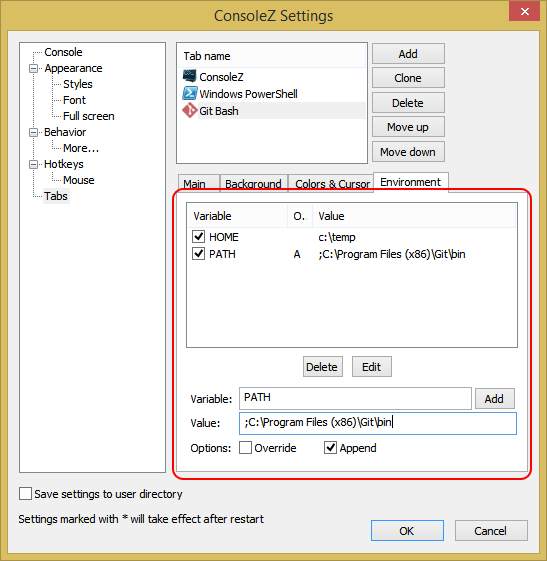
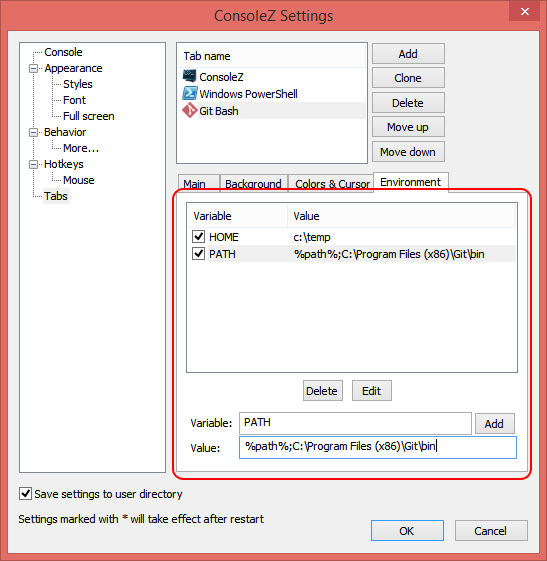
#130 use two passes algorithm but don't use appending for PATH and LIBPATH

Changed region(s): [[0.0, 0.0, 1.0, 1.0], [0.5283, 0.3636, 0.8702, 0.4848]]

diff --git a/help/html/settings_tabs_environment.html b/help/html/settings_tabs_environment.html
@@ -53,18 +53,6 @@
 	</p>
 	<br />
 
-	<p class="block-row-name">Override</p>
-	<p class="block-row-description">
-		If checked, existing environment variable is replaced by this one.
-	</p>
-	<br />
-
-	<p class="block-row-name">Append</p>
-	<p class="block-row-description">
-		If checked, the value is appended to the existing one.
-	</p>
-	<br />
-
 </body>
 
 </html>

diff --git a/Console/PageSettingsTabsEnv.cpp b/Console/PageSettingsTabsEnv.cpp
@@ -21,17 +21,13 @@ LRESULT PageSettingsTabsEnv::OnInitDialog(UINT /*uMsg*/, WPARAM /*wParam*/, LPAR
 	m_listCtrl.SetExtendedListViewStyle(m_listCtrl.GetExtendedListViewStyle() | LVS_EX_FULLROWSELECT | LVS_EX_CHECKBOXES);
 
 	m_listCtrl.InsertColumn(0, L"Variable");
-	m_listCtrl.InsertColumn(1, L"Options");
-	m_listCtrl.InsertColumn(2, L"Value");
+	m_listCtrl.InsertColumn(1, L"Value");
 
 	m_listCtrl.SetColumnWidth(0, 100);
-	m_listCtrl.SetColumnWidth(1, LVSCW_AUTOSIZE);
-	m_listCtrl.SetColumnWidth(2, LVSCW_AUTOSIZE_USEHEADER);
+	m_listCtrl.SetColumnWidth(1, LVSCW_AUTOSIZE_USEHEADER);
 
 	m_editVariable.Attach(GetDlgItem(IDC_ENV_VARIABLE));
 	m_editValue.Attach(GetDlgItem(IDC_ENV_VALUE));
-	m_checkOverride.Attach(GetDlgItem(IDC_CHECK_ENV_OVERRIDE));
-	m_checkAppend.Attach(GetDlgItem(IDC_CHECK_ENV_APPEND));
 
 	return TRUE;
 }
@@ -53,12 +49,7 @@ void PageSettingsTabsEnv::Load(shared_ptr<TabData>& tabData)
 		int nItem = m_listCtrl.InsertItem(m_listCtrl.GetItemCount(), m_tabData->environmentVariables[i]->strEnvVariable.c_str());
 		m_listCtrl.SetCheckState(nItem, m_tabData->environmentVariables[i]->bEnvChecked);
 
-		std::wstring options;
-		if( m_tabData->environmentVariables[i]->bOverride ) options += L'O';
-		if( m_tabData->environmentVariables[i]->bAppend ) options += L'A';
-		m_listCtrl.SetItemText(nItem, 1, options.c_str());
-
-		m_listCtrl.SetItemText(nItem, 2, m_tabData->environmentVariables[i]->strEnvValue.c_str());
+		m_listCtrl.SetItemText(nItem, 1, m_tabData->environmentVariables[i]->strEnvValue.c_str());
 	}
 }
 
@@ -72,26 +63,13 @@ void PageSettingsTabsEnv::Save()
 	{
 		CString strVariable;
 		m_listCtrl.GetItemText(nItem, 0, strVariable);
-		CString strOptions;
-		m_listCtrl.GetItemText(nItem, 1, strOptions);
 		CString strValue;
-		m_listCtrl.GetItemText(nItem, 2, strValue);
+		m_listCtrl.GetItemText(nItem, 1, strValue);
 
 		std::shared_ptr<VarEnv> varenv (new VarEnv);
 		varenv->strEnvVariable = strVariable.GetString();
 		varenv->strEnvValue = strValue.GetString();
 		varenv->bEnvChecked = m_listCtrl.GetCheckState(nItem)? true : false;
-		int idx = 0;
-		if( idx < strOptions.GetLength() && strOptions.GetAt(idx) == L'O' )
-		{
-			varenv->bOverride = true;
-			idx ++;
-		}
-		if( idx < strOptions.GetLength() && strOptions.GetAt(idx) == L'A' )
-		{
-			varenv->bAppend = true;
-			idx ++;
-		}
 		m_tabData->environmentVariables.push_back(varenv);
 	}
 }
@@ -120,12 +98,7 @@ LRESULT PageSettingsTabsEnv::OnClickedBtnEnvAdd(WORD /*wNotifyCode*/, WORD /*wID
 		m_listCtrl.SetCheckState(nItem, TRUE);
 	}
 
-	std::wstring options;
-	if( m_checkOverride.GetCheck() ) options += L'O';
-	if( m_checkAppend.GetCheck() ) options += L'A';
-	m_listCtrl.SetItemText(nItem, 1, options.c_str());
-
-	m_listCtrl.SetItemText(nItem, 2, strValue);
+	m_listCtrl.SetItemText(nItem, 1, strValue);
 
 	return 0;
 }
@@ -147,30 +120,11 @@ LRESULT PageSettingsTabsEnv::OnClickedBtnEnvEdit(WORD /*wNotifyCode*/, WORD /*wI
 
 	CString strVariable;
 	m_listCtrl.GetItemText(nItem, 0, strVariable);
-	CString strOptions;
-	m_listCtrl.GetItemText(nItem, 1, strOptions);
 	CString strValue;
-	m_listCtrl.GetItemText(nItem, 2, strValue);
+	m_listCtrl.GetItemText(nItem, 1, strValue);
 
 	m_editVariable.SetWindowText(strVariable);
 	m_editValue.SetWindowText(strValue);
-
-	bool bOverride = false;
-	bool bAppend = false;
-	int idx = 0;
-	if( idx < strOptions.GetLength() && strOptions.GetAt(idx) == L'O' )
-	{
-		bOverride = true;
-		idx ++;
-	}
-	if( idx < strOptions.GetLength() && strOptions.GetAt(idx) == L'A' )
-	{
-		bAppend = true;
-		idx ++;
-	}
-
-	m_checkOverride.SetCheck(bOverride);
-	m_checkAppend.SetCheck(bAppend);
 
 	return 0;
 }

diff --git a/Console/ConsoleHandler.cpp b/Console/ConsoleHandler.cpp
@@ -7,6 +7,8 @@
 #include "ConsoleException.h"
 #include "ConsoleHandler.h"
 
+#include <regex>
+
 //////////////////////////////////////////////////////////////////////////////
 
 
@@ -175,18 +177,44 @@ std::wstring MergeEnvironmentVariables(
 		dictionary[std::wstring(p, equal - p)] = std::wstring(equal + 1);
 	}
 
+	std::map<std::wstring, std::wstring, __case_insensitive_compare> extra;
+
 	for(auto i = extraEnv.cbegin(); i != extraEnv.cend(); ++i)
 	{
 		if( !i->get()->bEnvChecked ) continue;
 
-		auto iter = dictionary.find(i->get()->strEnvVariable);
+		extra[i->get()->strEnvVariable] = i->get()->strEnvValue;
+	}
 
-		if( iter == dictionary.end() )
-			dictionary[i->get()->strEnvVariable] = i->get()->strEnvValue;
-		else if( i->get()->bAppend )
-			iter->second += i->get()->strEnvValue;
-		else if( i->get()->bOverride )
-			iter->second = i->get()->strEnvValue;
+	// variable name has only one restriction: no =
+	std::wregex regexEnvVar(L"%[^=]+%");
+
+	// first pass (we add all variables without %%)
+	for(auto i = extra.begin(); i != extra.end();)
+	{
+		if( std::regex_search(i->second, regexEnvVar) )
+		{
+			++i;
+		}
+		else
+		{
+			dictionary[i->first] = i->second;
+
+			i = extra.erase(i);
+		}
+	}
+
+	// second pass (we add all variables with %%)
+	for(auto i = extra.begin(); i != extra.end(); ++i)
+	{
+		std::wstring str = i->second;
+
+		for(auto j = dictionary.cbegin(); j != dictionary.cend(); ++j)
+		{
+			str = std::regex_replace(str, std::wregex(std::wstring(L"%") + j->first + std::wstring(L"%"), regex_constants::icase), j->second, std::regex_constants::match_any);
+		}
+
+		dictionary[i->first] = str;
 	}
 
 	for(auto i = dictionary.cbegin(); i != dictionary.cend(); ++i)

diff --git a/Console/SettingsHandler.cpp b/Console/SettingsHandler.cpp
@@ -2254,8 +2254,6 @@ bool TabSettings::Load(const CComPtr<IXMLDOMElement>& pSettingsRoot)
 					XmlHelper::GetAttribute(pEnvElement, CComBSTR(L"var"),      varenv->strEnvVariable, L"");
 					XmlHelper::GetAttribute(pEnvElement, CComBSTR(L"value"),    varenv->strEnvValue,    L"");
 					XmlHelper::GetAttribute(pEnvElement, CComBSTR(L"check"),    varenv->bEnvChecked,    true);
-					XmlHelper::GetAttribute(pEnvElement, CComBSTR(L"override"), varenv->bOverride,      false);
-					XmlHelper::GetAttribute(pEnvElement, CComBSTR(L"append"),   varenv->bAppend,        false);
 
 					if( !varenv->strEnvVariable.empty() )
 						tabData->environmentVariables.push_back(varenv);
@@ -2406,8 +2404,6 @@ bool TabSettings::Save(const CComPtr<IXMLDOMElement>& pSettingsRoot)
 				XmlHelper::SetAttribute(pNewEnvElement, CComBSTR(L"var"),   (*itTab)->environmentVariables[i]->strEnvVariable);
 				XmlHelper::SetAttribute(pNewEnvElement, CComBSTR(L"value"), (*itTab)->environmentVariables[i]->strEnvValue);
 				XmlHelper::SetAttribute(pNewEnvElement, CComBSTR(L"check"), (*itTab)->environmentVariables[i]->bEnvChecked);
-				XmlHelper::SetAttribute(pNewEnvElement, CComBSTR(L"override"), (*itTab)->environmentVariables[i]->bOverride);
-				XmlHelper::SetAttribute(pNewEnvElement, CComBSTR(L"append"), (*itTab)->environmentVariables[i]->bAppend);
 
 				XmlHelper::AddTextNode(pNewConsoleElement, CComBSTR(L"\n\t\t\t\t"));
 				pNewConsoleElement->appendChild(pNewEnvElement, &pNewEnvOut);

diff --git a/Console/resource.h b/Console/resource.h
@@ -285,8 +285,6 @@
 #define IDC_BTN_ENV_EDIT                1229
 #define IDC_ENV_VARIABLE                1230
 #define IDC_ENV_VALUE                   1231
-#define IDC_CHECK_ENV_OVERRIDE          1232
-#define IDC_CHECK_ENV_APPEND            1233
 
 #define ID_NEW_TAB_1                    2000
 #define ID_SWITCH_TAB_1                 2100

diff --git a/Console/PageSettingsTabsEnv.h b/Console/PageSettingsTabsEnv.h
@@ -41,9 +41,6 @@ class PageSettingsTabsEnv
 		CListViewCtrl       m_listCtrl;
 		CEdit               m_editVariable;
 		CEdit               m_editValue;
-		CButton             m_checkOverride;
-		CButton             m_checkAppend;
-
 };
 
 //////////////////////////////////////////////////////////////////////////////

diff --git a/Console/SettingsHandler.h b/Console/SettingsHandler.h
@@ -769,16 +769,12 @@ struct VarEnv
 		: strEnvVariable()
 		, strEnvValue()
 		, bEnvChecked(false)
-		, bOverride(false)
-		, bAppend(false)
 	{
 	}
 
 	std::wstring strEnvVariable;
 	std::wstring strEnvValue;
 	bool         bEnvChecked;
-	bool         bOverride;
-	bool         bAppend;
 };
 
 struct TabData
